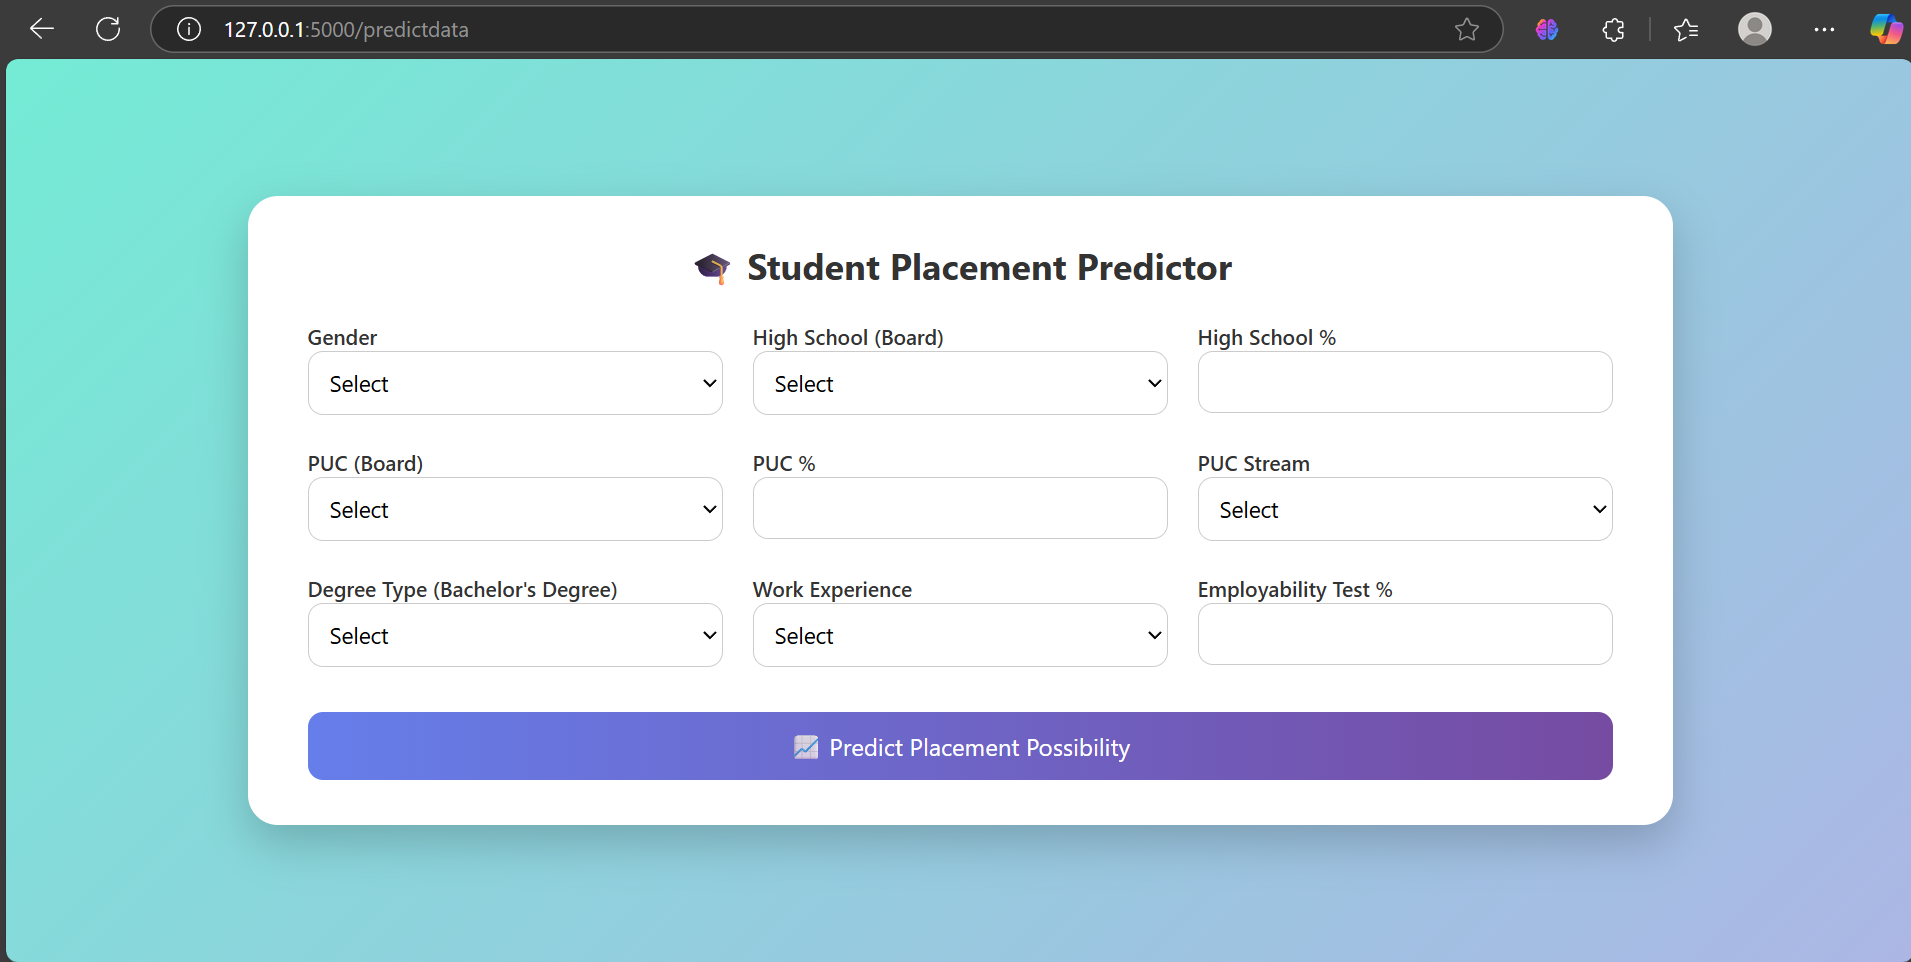
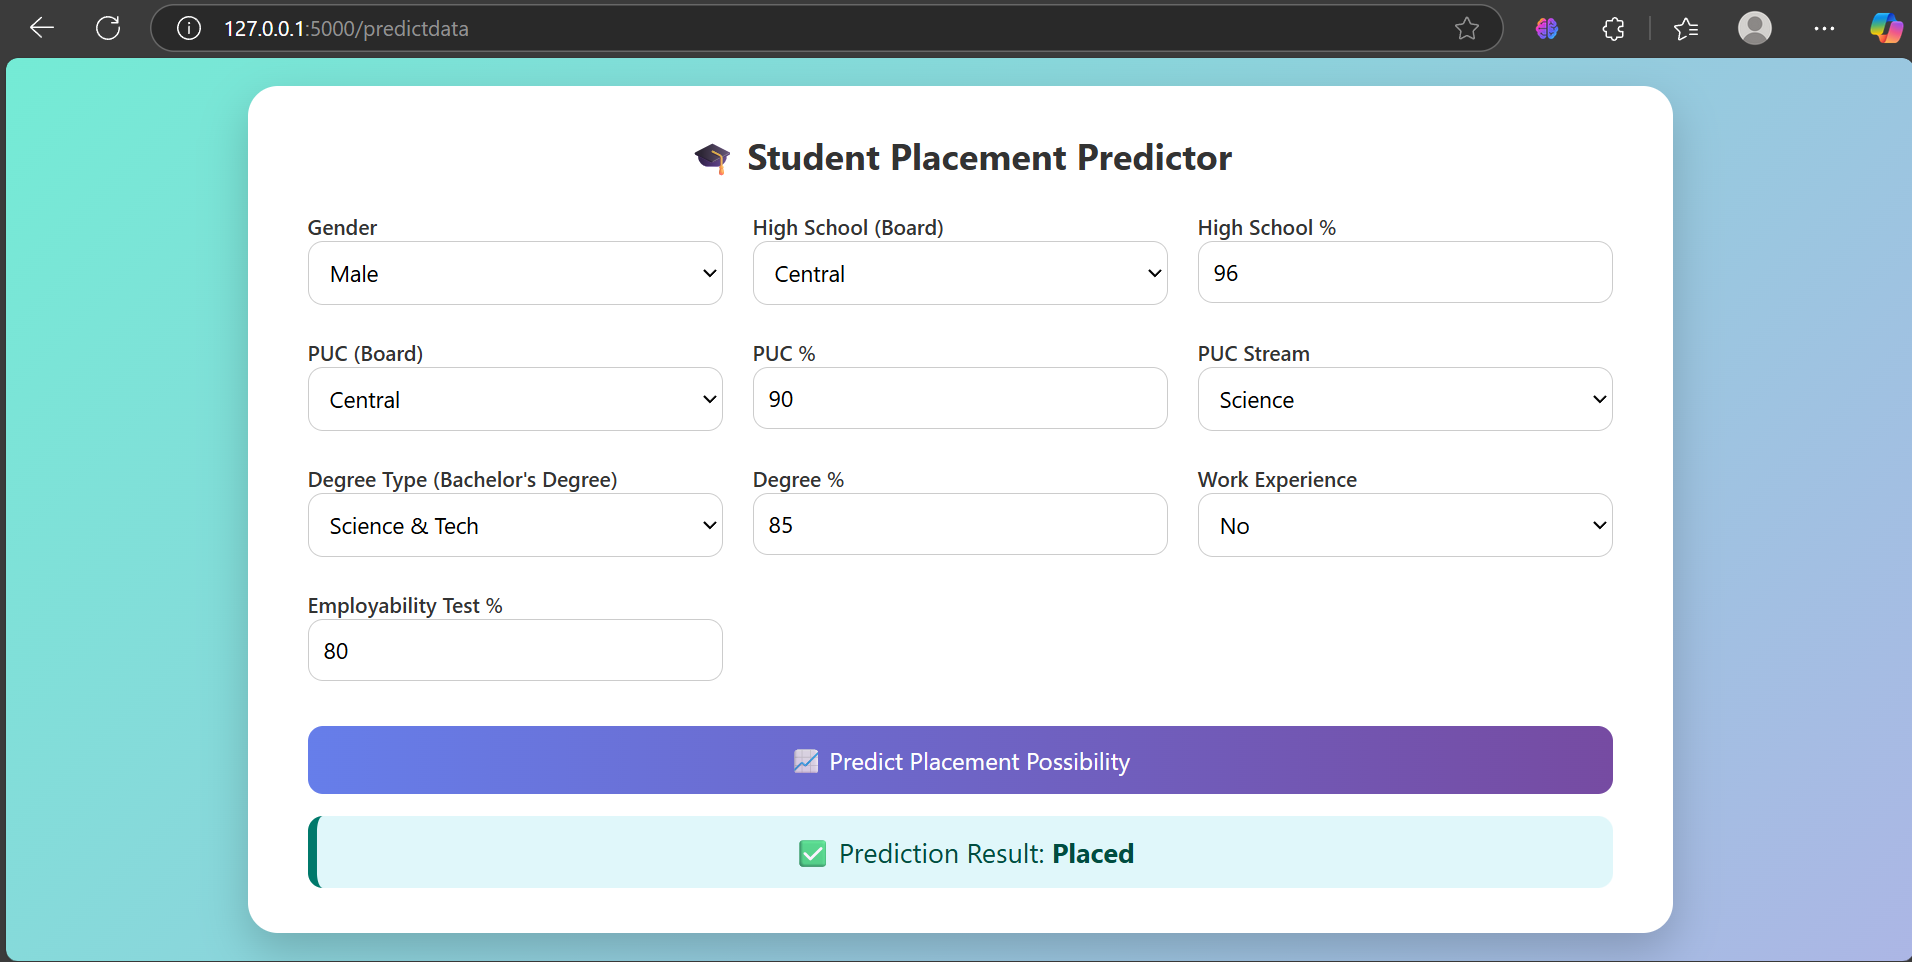
Model Deployment

diff --git a/templates/home.html b/templates/home.html
@@ -160,6 +160,11 @@
       </div>
 
       <div>
+        <label>Degree %</label>
+        <input type="number" name="degree_p" step="0.01" min="0" max="100" required>
+      </div>
+
+      <div>
         <label>Work Experience</label>
         <select name="workex" required>
           <option value="">Select</option>
@@ -176,12 +181,18 @@
       <button class="predict-btn" type="submit">📈 Predict Placement Possibility</button>
     </form>
 
-    {% if results %}
+    {% if results is not none %}
     <div class="result-box">
-      ✅ Prediction Result: <strong>{{ results }}</strong>
+      ✅ Prediction Result: 
+      <strong>
+        {% if results == 1 %}
+          Placed
+        {% else %}
+          Not Placed
+        {% endif %}
+      </strong>
     </div>
     {% endif %}
-
   </div>
 </body>
 </html>
